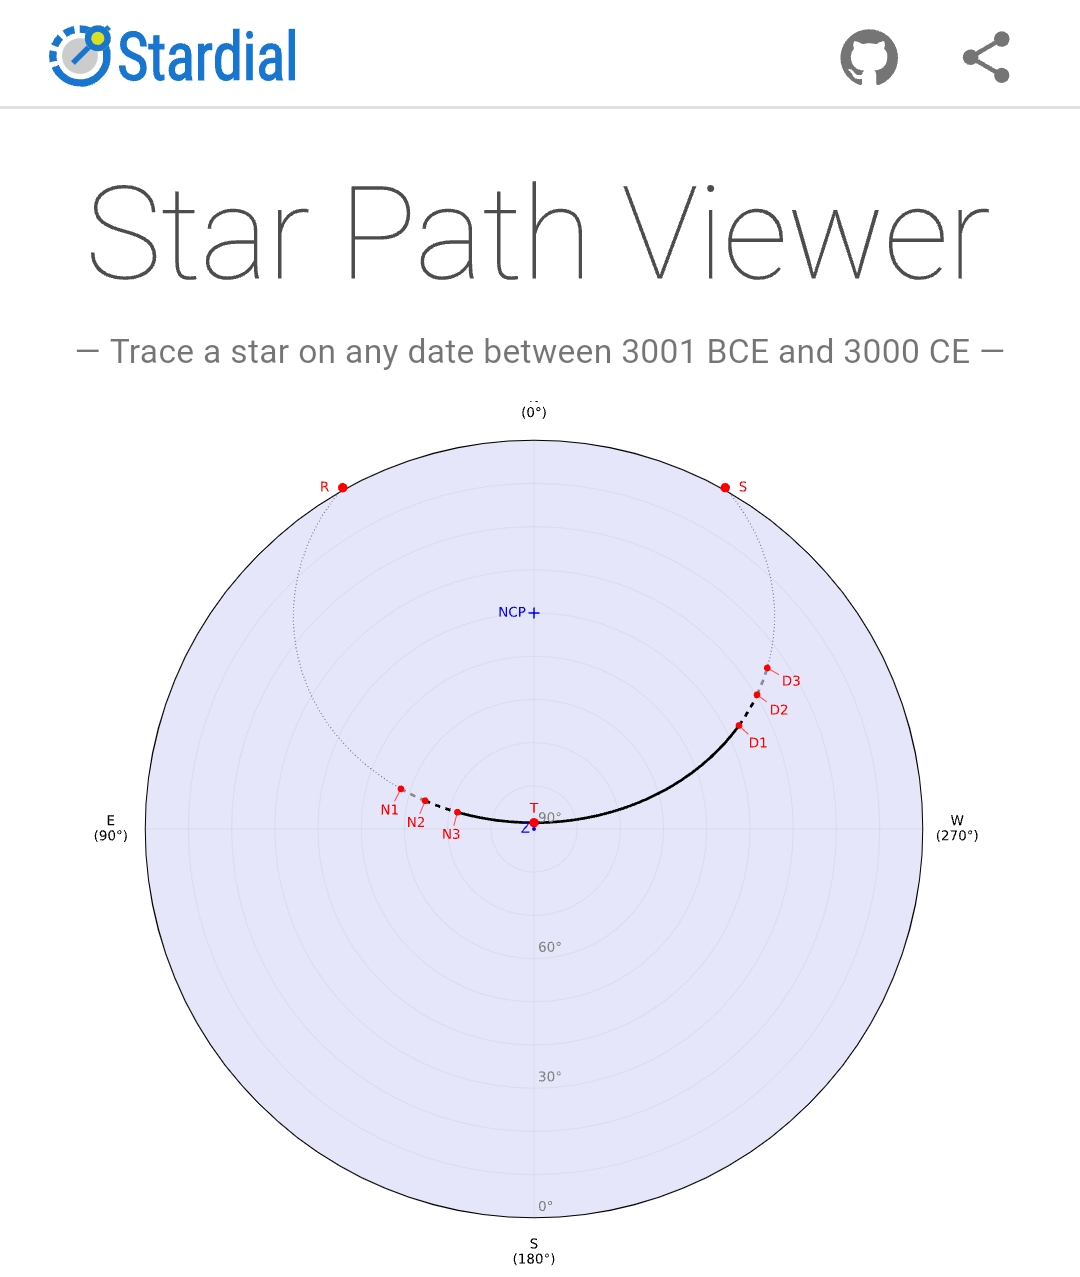
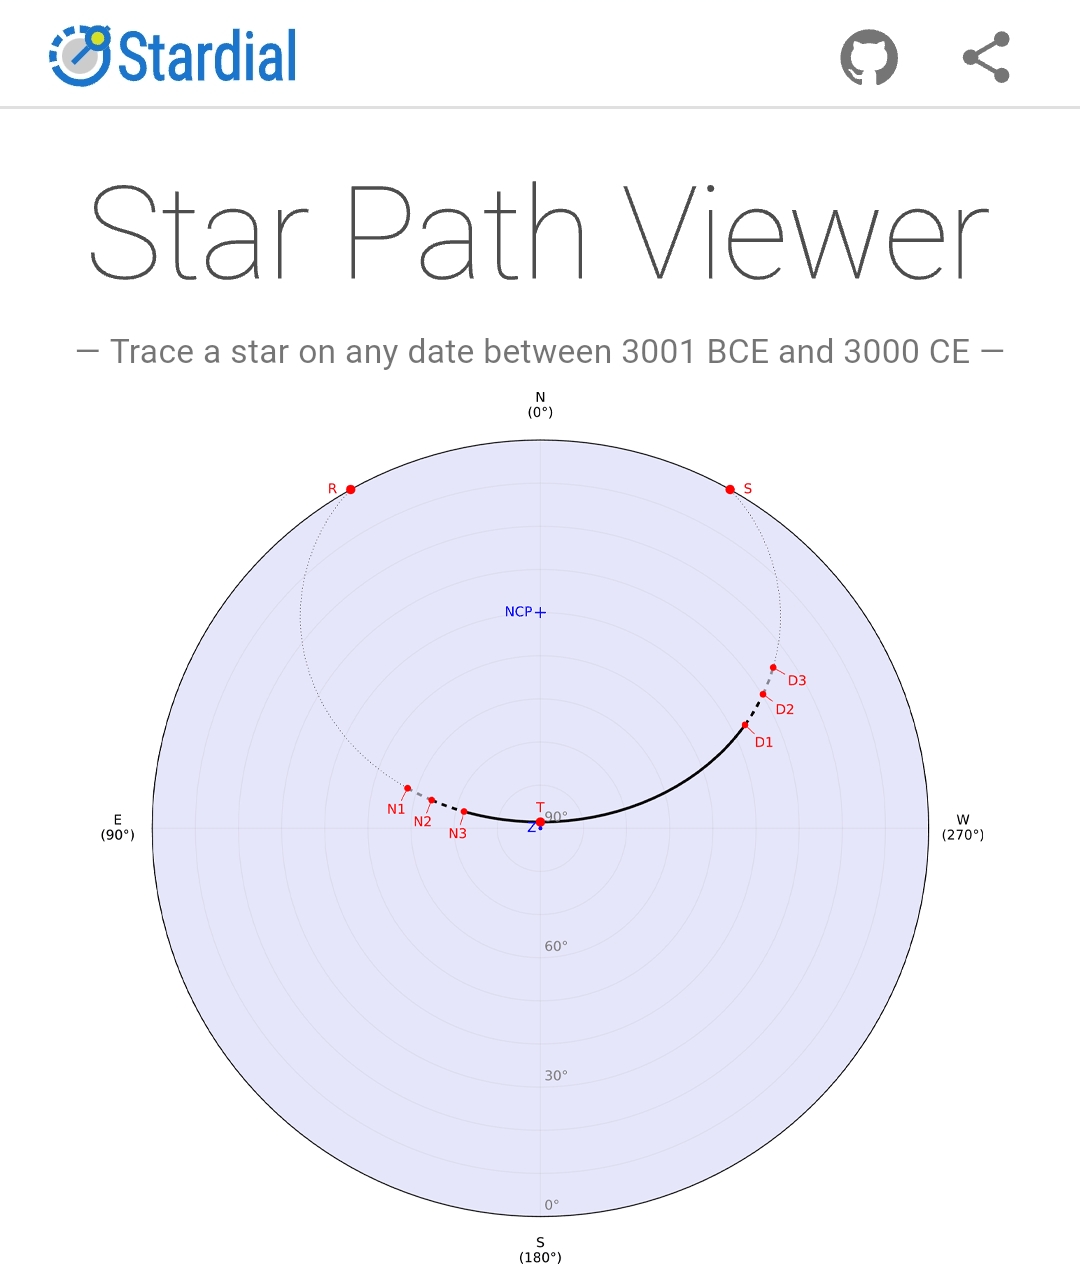
updated images; README

diff --git a/README.md b/README.md
@@ -1,12 +1,12 @@
 # Star Path Viewer - Data
 
-Hosts data for the [React client](https://github.com/stardial-astro/star-path-viewer) of the website [Star Path Viewer](https://star-path-viewer.pages.dev/).
+Hosts data for the [React client](https://github.com/stardial-astro/star-path-viewer) of [Star Path Viewer](https://star-path-viewer.pages.dev/).
 
-- Hipparchus Catalogue Numbers, Bayer Designations, and Proper Names
+- Hipparcos Catalogue Numbers, Bayer Designations, and Proper Names
 
   [hip_ident.json](https://stardial-astro.github.io/star-path-data/json/hip_ident.json)
 
-- Hipparchus Catalogue Numbers, Bayer Designations, Proper Names, and Chinese Names
+- Hipparcos Catalogue Numbers, Bayer Designations, Proper Names, and Chinese Names
 
   [hip_ident_zh.json](https://stardial-astro.github.io/star-path-data/json/hip_ident_zh.json)
 
@@ -14,23 +14,12 @@ The CSV version of these files are in [the original repository](https://github.c
 
 ## Resources
 
-- Hipparchus Catalogue
+- [The Hipparcos and Tycho Catalogues](https://www.cosmos.esa.int/web/hipparcos/catalogues) [[FTP](https://cdsarc.cds.unistra.fr/ftp/cats/I/239)]
 
-  [The Hipparcos and Tycho Catalogues](https://www.cosmos.esa.int/web/hipparcos/catalogues)
-  [FTP](https://cdsarc.cds.unistra.fr/ftp/cats/I/239) (DE406)
+- Bayer Designation and Proper Name [[FTP (ident4, ident6)](https://cdsarc.cds.unistra.fr/ftp/I/239/version_cd/tables)]
 
-- Bayer Designation and Proper Name
+- Chinese Star Names: [Hong Kong Observatory](https://web.archive.org/web/20120209032035/http://www.lcsd.gov.hk/CE/Museum/Space/Research/StarName/c_research_chinengstars.htm)
 
-  [FTP](https://cdsarc.cds.unistra.fr/ftp/I/239/version_cd/tables) (ident4, ident6)
+- Traditional Chinese to Simplified Chinese Conversion: [Open Chinese Convert](https://pypi.org/project/OpenCC)
 
-- Chinese Star Names
-
-  [Hong Kong Observatory](https://web.archive.org/web/20120209032035/http://www.lcsd.gov.hk/CE/Museum/Space/Research/StarName/c_research_chinengstars.htm)
-
-- Traditional Chinese to Simplified Chinese Conversion
-
-  [Open Chinese Convert](https://pypi.org/project/OpenCC)
-
-- Chinese Characters to Pinyin Conversion
-
-  [pypinyin](https://github.com/mozillazg/python-pinyin)
+- Chinese Characters to Pinyin Conversion: [pypinyin](https://github.com/mozillazg/python-pinyin)
